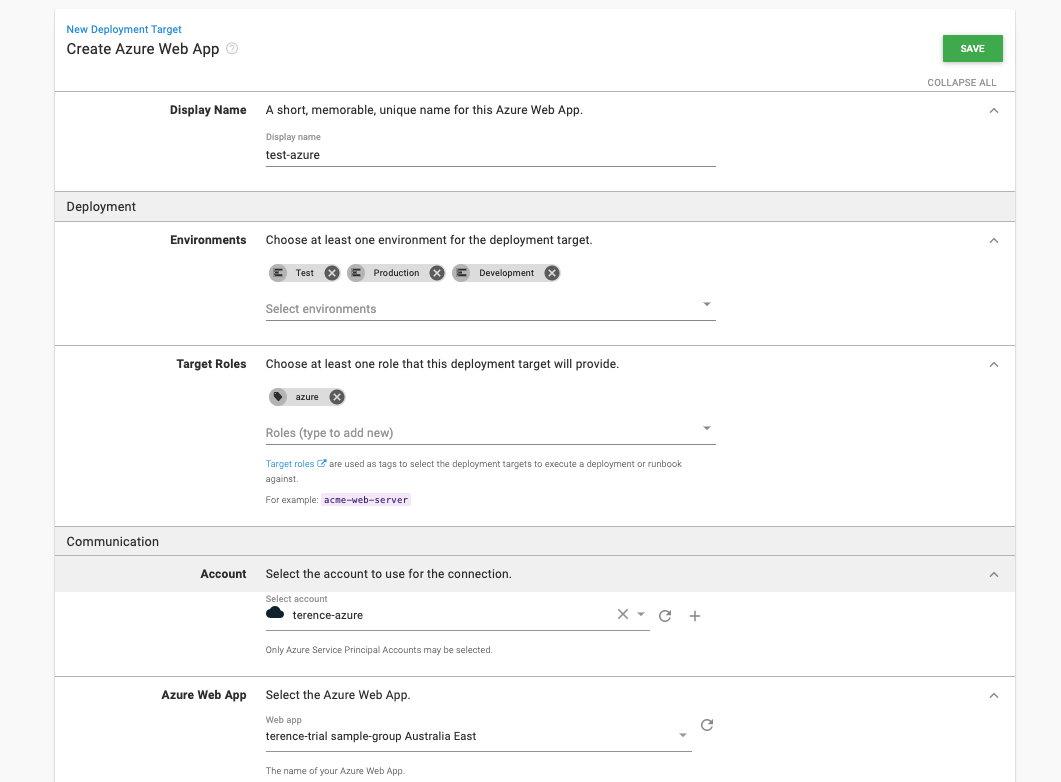
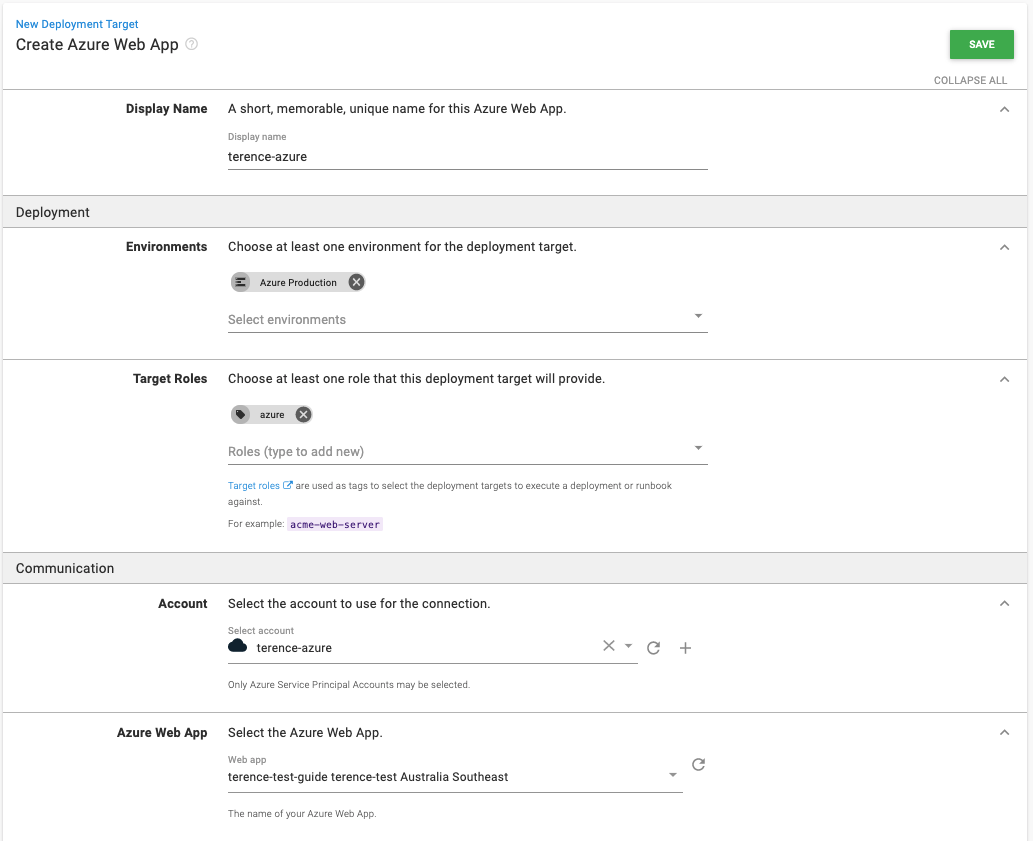
addressed feedback

diff --git a/blog/2021-07/importing-a-deployable-tutorial/importing-a-deployable-tutorial.md b/blog/2021-07/importing-a-deployable-tutorial/importing-a-deployable-tutorial.md
@@ -123,8 +123,9 @@ Next, you will set up an [Azure web application](#web-application-setup) and con
 
 1. In your **Resource group** click **{{Create, Web App}}**
 2. Create a Windows Node Application under runtime stack and operating system.
-2. Once the web app is setup, route the path of the web application to default to the home path by navigating to **{{Configuration, Path Mappings, Virtual applications and directories}}**
-3. Set the Physical path to ```site\wwwroot\guide``` and the Virtual Path to ```/``` 
+3. Take note of your Azure app name. This will be your address: [your-site].azurewebsites.net
+4. Once the web app is setup, route the path of the web application to default to the home path by navigating to **{{Configuration, Path Mappings, Virtual applications and directories}}**
+5. Set the Physical path to ```site\wwwroot\guide``` and the Virtual Path to ```/``` 
 
 Now that we have the Azure account set up in Azure and Octopus, we will upload the package for Azure.
 
@@ -158,26 +159,9 @@ With Octopus, you can deploy software to Windows servers, Linux servers, Microso
 
 Now that we've imported a project, set up the Azure account, set up the deployment target, and uploaded the package, we will deploy the application.
 
-1. Go to **{{Projects, HTML, create release}}** and step through to deploy the web application to Azure from Test to Development to Production.
-2. Deployment variables have been set up to notify the tasklog of which environment is being deployed. A Hello, [Environment] log message will be displayed
+1. Go to **{{Projects, HTML, create release}}** and step through to deploy the web application to Azure from the Azure production environment.
 
 ![Deploy Success](deploy-success.png "Deploy Success")
-
-![Variable](variable.png "Variable")
-
-Octopus Deploy provides a runbook feature to run scripts for tasks that lie outside of deploying releases. This project provides a sample runbook that runs on each environment to display a 'Hello, [Environment] Runbook' message.
-
-1. Go to the **{{HTML Project, Operations, Runbooks, Run}}**
-2. Select all three environments and runs
-3. You will see a success message and a log message of Hello, [Environment] Runbook for each environment.
-
-![Runbook Run](runbook-run.png "Runbook Run")
-
-![Runbook Success](runbook-success.png "Runbook Success")
-
-![Runbook Log](runbook-log.png "Runbook Log")
-
-Runbooks are a helpful way to automate tasks that are not part of a release. Examples include updating databases, switching off and on servers, patching software, and more.
 
 Check your application by going to [your-site].azurewebsites.net where you will see the following page:
 
